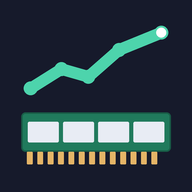
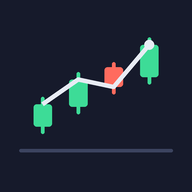
feat: 應用程式圖示改為財金意象 (v0.3.012)
原本是 DRAM 記憶體模組 + 上升折線，那是只有 DRAM 一個分頁時的設計；
現在涵蓋 DRAM、美債、黃金、財經行事曆，改用通用的財金圖示：
四根 K 線（含一根下跌）加一條貫穿收盤價的上升趨勢線，底色沿用
dashboard 深色主題的 #161a2b。

檔名不變（icon-180／192／512、favicon-32），HTML 與 manifest 不需調整。

diff --git a/docs/index.html b/docs/index.html
@@ -218,7 +218,7 @@
           <path d="M20.49 15a9 9 0 1 1-2.12-9.36L23 10"/>
         </svg>
       </button>
-      <span class="ver">v0.3.011</span>
+      <span class="ver">v0.3.012</span>
     </div>
   </header>
 
@@ -1469,8 +1469,8 @@
 
     <div class="card">
       <div class="card-h">關於</div>
-      <div class="row"><span>版本</span><b>v0.3.011</b></div>
-      <div class="row"><span>頁面產生時間</span><b>2026-09-01 22:58 (UTC+8)</b></div>
+      <div class="row"><span>版本</span><b>v0.3.012</b></div>
+      <div class="row"><span>頁面產生時間</span><b>2026-09-01 23:09 (UTC+8)</b></div>
       <div class="row"><span>原始碼</span>
         <a href="https://github.com/ChrisHo0317/Local_Dashboard"
            target="_blank" rel="noopener">GitHub</a></div>

diff --git a/make_icons.py b/make_icons.py
@@ -9,7 +9,10 @@ icon-512.png（Android / manifest）、favicon-32.png。
 只在需要重做圖示時執行；平常不會用到。需要 Pillow：
     pip install pillow
 
-圖示內容：DRAM 記憶體模組 + 上升折線，底色與 dashboard 深色主題一致。
+圖示內容：K 線（漲跌燭身）＋上升折線，底色與 dashboard 深色主題一致。
+這個 app 涵蓋 DRAM、美債、黃金、財經行事曆，所以用通用的財金意象，
+不再用特定商品（原本是 DRAM 記憶體模組）。
+
 iOS 會自行套用圓角遮罩，因此畫面必須是「不透明的整個正方形」，
 且內容要留在中央安全區內，避免被切掉。
 """
@@ -19,63 +22,66 @@ from PIL import Image, ImageDraw
 
 OUT_DIR = Path(__file__).resolve().parent / "docs"
 
-BG      = (22, 26, 43)      # #161a2b 深藍底（與 chart 深色主題同調）
-PCB     = (32, 122, 92)     # 模組基板綠
-PCB_EDGE= (24, 92, 70)
-CHIP    = (232, 236, 244)   # 模組上的顆粒
-PIN     = (229, 181, 103)   # 金手指
-LINE    = (77, 212, 172)    # 上升折線（薄荷綠）
-DOT     = (255, 255, 255)
+BG   = (22, 26, 43)       # #161a2b 深藍底（與 chart 深色主題同調）
+UP   = (61, 220, 151)     # 上漲燭身（薄荷綠）
+DOWN = (255, 107, 94)     # 下跌燭身（珊瑚紅）
+LINE = (232, 236, 244)    # 趨勢線（近白）
+AXIS = (60, 68, 96)       # 基準線
 
 S = 1024  # 先畫大張再縮小，得到平滑邊緣
+
+# 每根 K 棒：(低, 高, 開, 收) 皆為 0~1 的相對高度，1 = 最上緣
+# 整體呈上升趨勢，中間夾一根下跌棒，一眼就看得出是行情圖
+CANDLES = [
+    (0.12, 0.42, 0.18, 0.36),
+    (0.28, 0.62, 0.34, 0.56),
+    (0.44, 0.70, 0.66, 0.50),   # 下跌
+    (0.52, 0.90, 0.58, 0.84),
+]
 
 
 def draw_icon() -> Image.Image:
     img = Image.new("RGB", (S, S), BG)
     d = ImageDraw.Draw(img)
 
-    # ── 上半部：上升折線 ────────────────────────────────
-    pts = [
-        (0.16, 0.46), (0.32, 0.36), (0.46, 0.40),
-        (0.62, 0.26), (0.84, 0.17),
-    ]
-    xy = [(x * S, y * S) for x, y in pts]
-    d.line(xy, fill=LINE, width=int(0.062 * S), joint="curve")
-    for x, y in xy:
-        r = 0.036 * S
-        d.ellipse([x - r, y - r, x + r, y + r], fill=LINE)
-    # 最高點加白色圓點強調
-    hx, hy = xy[-1]
+    left, right = 0.13 * S, 0.87 * S
+    bottom, top = 0.775 * S, 0.13 * S
+    span = bottom - top
+
+    def y(v: float) -> float:
+        return bottom - v * span
+
+    # 底部基準線
+    d.rounded_rectangle([left - 0.03 * S, bottom, right + 0.03 * S, bottom + 0.018 * S],
+                        radius=0.009 * S, fill=AXIS)
+
+    n = len(CANDLES)
+    slot = (right - left) / n
+    body_w = slot * 0.52
+    wick_w = max(2.0, slot * 0.10)
+
+    centers = []
+    for i, (lo, hi, op, cl) in enumerate(CANDLES):
+        cx = left + slot * (i + 0.5)
+        centers.append((cx, y(cl)))
+        color = UP if cl >= op else DOWN
+
+        # 影線
+        d.rounded_rectangle([cx - wick_w / 2, y(hi), cx + wick_w / 2, y(lo)],
+                            radius=wick_w / 2, fill=color)
+        # 燭身
+        b0, b1 = sorted((y(op), y(cl)))
+        if b1 - b0 < 0.03 * S:            # 開收太接近時給個最小厚度
+            mid = (b0 + b1) / 2
+            b0, b1 = mid - 0.015 * S, mid + 0.015 * S
+        d.rounded_rectangle([cx - body_w / 2, b0, cx + body_w / 2, b1],
+                            radius=0.016 * S, fill=color)
+
+    # 貫穿的上升趨勢線（沿各棒收盤價）
+    d.line(centers, fill=LINE, width=int(0.024 * S), joint="curve")
     r = 0.026 * S
-    d.ellipse([hx - r, hy - r, hx + r, hy + r], fill=DOT)
-
-    # ── 下半部：DRAM 模組 ──────────────────────────────
-    left, right = 0.11 * S, 0.89 * S
-    top, bottom = 0.585 * S, 0.79 * S
-    d.rounded_rectangle([left, top, right, bottom], radius=0.022 * S,
-                        fill=PCB, outline=PCB_EDGE, width=int(0.008 * S))
-
-    # 模組上的 4 顆記憶體顆粒
-    n = 4
-    pad = 0.035 * S
-    gap = 0.022 * S
-    cw = (right - left - 2 * pad - (n - 1) * gap) / n
-    ch = (bottom - top) * 0.52
-    cy = top + (bottom - top - ch) / 2
-    for i in range(n):
-        cx = left + pad + i * (cw + gap)
-        d.rounded_rectangle([cx, cy, cx + cw, cy + ch],
-                            radius=0.008 * S, fill=CHIP)
-
-    # 金手指（底部接腳）
-    py0, py1 = bottom, bottom + 0.065 * S
-    pin_w = 0.030 * S
-    pin_gap = 0.024 * S
-    x = left + 0.03 * S
-    while x + pin_w <= right - 0.03 * S:
-        d.rounded_rectangle([x, py0, x + pin_w, py1],
-                            radius=0.004 * S, fill=PIN)
-        x += pin_w + pin_gap
+    hx, hy = centers[-1]
+    d.ellipse([hx - r, hy - r, hx + r, hy + r], fill=LINE)
 
     return img
 

diff --git a/version.py b/version.py
@@ -14,4 +14,4 @@
 只在「程式碼」有變動時手動遞增；每日自動更新報價不算版本變更，
 因此 .github/workflows/update.yml 不會動到這個檔案。
 """
-__version__ = "v0.3.011"
+__version__ = "v0.3.012"

diff --git a/README.md b/README.md
@@ -67,7 +67,7 @@ python update_data.py    # 爬取最新報價 → 更新 CSV → 重建 HTML
 ## 加入 iPhone / Android 主畫面
 
 用 Safari 或 Chrome 開啟上方網址 → 分享選單 →「加入主畫面」。
-圖示會顯示 DRAM 模組與上升折線，名稱為「DRAM 報價」，開啟後為獨立視窗（無瀏覽器網址列）。
+圖示是 K 線與上升趨勢線，名稱為「市場走勢」，開啟後為獨立視窗（無瀏覽器網址列）。
 
 ---
 
@@ -91,7 +91,7 @@ python update_data.py    # 爬取最新報價 → 更新 CSV → 重建 HTML
 | `build_static.py` | 產生 `docs/index.html` |
 | `app.py` | 本地 Dash 版 |
 | `export_from_sqlite.py` | 自本機 SQLite 匯出初始 CSV |
-| `make_icons.py` | 產生 `docs/` 底下的網站圖示（需 Pillow） |
+| `make_icons.py` | 產生 `docs/` 底下的網站圖示：K 線 + 趨勢線（需 Pillow）|
 | `version.py` | 版本號，顯示於頁尾與本地 Dash 標頭 |
 
 ## 資料格式
